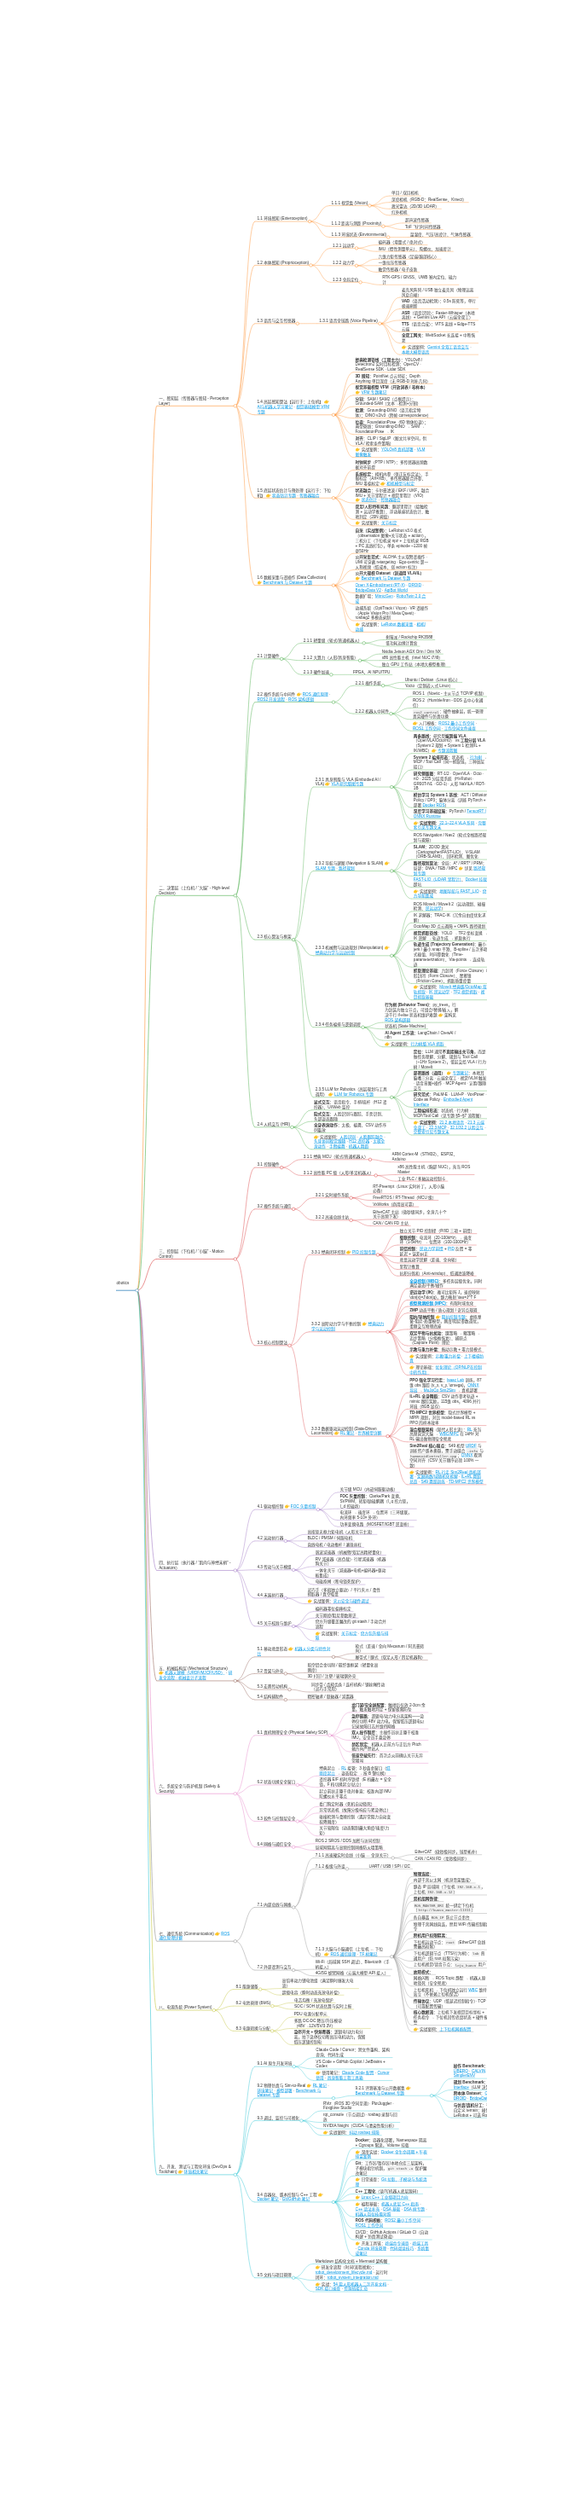
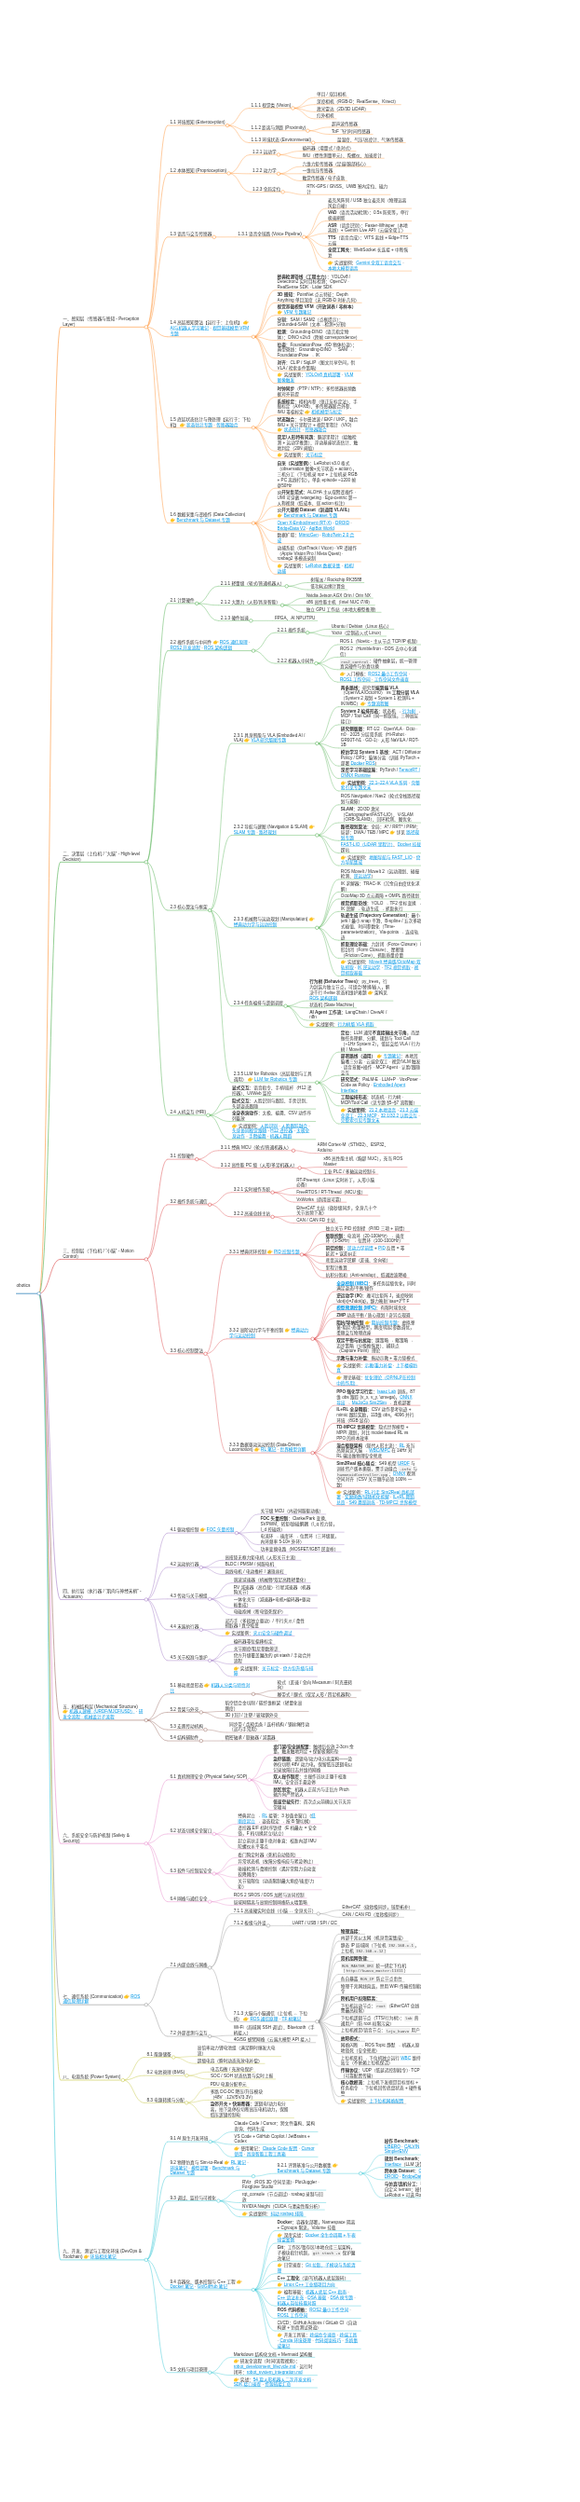
2

diff --git a/scripts/trim_preview_png.py b/scripts/trim_preview_png.py
@@ -63,6 +63,7 @@ def process(
     offset_y: int = 0,
     trim_right: int = 0,
     fit_width: bool = False,
+    fit_height: bool = False,
 ) -> tuple[int, int]:
     img = Image.open(path)
     if img.mode != "RGB":
@@ -101,17 +102,29 @@ def process(
                 fit = fit * th / nh
             nw = max(1, int(cw * fit))
             nh = max(1, int(ch * fit))
+            if (nw, nh) != (cw, ch):
+                cropped = cropped.resize((nw, nh), Image.Resampling.LANCZOS)
+                cw, ch = nw, nh
+        elif fit_height:
+            fit = (th / ch) * content_scale
+            nw = max(1, int(cw * fit))
+            nh = max(1, int(ch * fit))
+            cropped = cropped.resize((nw, nh), Image.Resampling.LANCZOS)
+            if nw > tw:
+                x0 = max(0, min(nw - tw, (nw - tw) // 2 - offset_x))
+                cropped = cropped.crop((x0, 0, x0 + tw, nh))
+            cw, ch = cropped.size
         else:
             fit = min(tw / cw, th / ch) * content_scale
             nw = max(1, int(cw * fit))
             nh = max(1, int(ch * fit))
-        if (nw, nh) != (cw, ch):
-            cropped = cropped.resize((nw, nh), Image.Resampling.LANCZOS)
-            cw, ch = nw, nh
+            if (nw, nh) != (cw, ch):
+                cropped = cropped.resize((nw, nh), Image.Resampling.LANCZOS)
+                cw, ch = nw, nh
         if canvas_height is None:
             th = ch
         canvas = Image.new("RGB", (tw, th), (255, 255, 255))
-        ox = max(0, min(tw - cw, (tw - cw) // 2 + offset_x))
+        ox = max(0, min(tw - cw, (tw - cw) // 2 + offset_x)) if not fit_height else 0
         oy = max(0, min(th - ch, (th - ch) // 2 + offset_y))
         canvas.paste(cropped, (ox, oy))
         cropped = canvas

diff --git a/scripts/normalize_readme_previews.py b/scripts/normalize_readme_previews.py
@@ -24,7 +24,7 @@ def main() -> None:
     if not LIFECYCLE.is_file():
         raise SystemExit(f"missing {LIFECYCLE}")
 
-    # 思维导图：与 lifecycle 同高画布，内容等比缩小后上下留白居中（勿用 fit_width）
+    # 横向全展开思维导图：按高度撑满同高画布，宽出部分居中裁切
     process(
         MINDMAP,
         border=BORDER,
@@ -36,9 +36,9 @@ def main() -> None:
         pad_bottom=10,
         canvas_width=CONTENT_W,
         canvas_height=CONTENT_H,
-        content_scale=0.86,
-        offset_x=12,
-        fit_width=False,
+        content_scale=0.94,
+        offset_x=18,
+        fit_height=True,
     )
 
     process(

diff --git a/README.md b/README.md
@@ -19,28 +19,12 @@ flowchart LR
     USER -.-> B
 ```
 
-<table width="100%">
-<tr valign="top">
-<td align="center" width="50%">
-<strong>结构 · 全链路思维导图</strong><br/>
-<a href="https://651yyds3939.github.io/robotics-notes/robot_system_preview.html">
-<img src="./assets/robot_system_preview.png" width="540" alt="机器人全链路思维导图"/>
-</a><br/>
-<a href="./robot_system.md">robot_system.md</a> ·
-<a href="https://651yyds3939.github.io/robotics-notes/robot_system_preview.html">交互版</a>
-</td>
-<td align="center" width="50%">
-<strong>流程 · 研发生命周期</strong><br/>
-<a href="https://651yyds3939.github.io/robotics-notes/robot_development_lifecycle.html">
-<img src="./assets/lifecycle_preview.png" width="540" alt="研发全流程 Mermaid 大图"/>
-</a><br/>
-<a href="./robot_development_lifecycle.md">robot_development_lifecycle.md</a> ·
-<a href="https://651yyds3939.github.io/robotics-notes/robot_development_lifecycle.html">完整 HTML</a>
-</td>
-</tr>
-</table>
+| **结构 · 全链路思维导图** | **流程 · 研发生命周期** |
+| :---: | :---: |
+| [<img src="./assets/robot_system_preview.png" width="100%" alt="机器人全链路思维导图"/>](https://651yyds3939.github.io/robotics-notes/robot_system_preview.html) | [<img src="./assets/lifecycle_preview.png" width="100%" alt="研发全流程 Mermaid 大图"/>](https://651yyds3939.github.io/robotics-notes/robot_development_lifecycle.html) |
+| [robot_system.md](./robot_system.md) · [交互版](https://651yyds3939.github.io/robotics-notes/robot_system_preview.html) | [robot_development_lifecycle.md](./robot_development_lifecycle.md) · [完整 HTML](https://651yyds3939.github.io/robotics-notes/robot_development_lifecycle.html) |
 
-> **缩略图说明**：上表两张 PNG 由 [`regenerate_all_previews.sh`](./regenerate_all_previews.sh) 自动生成（已裁边、同高；思维导图上下留白并略缩小）。**点击图片**打开 GitHub Pages 交互页。
+> **缩略图说明**：上表两张 PNG 由 [`regenerate_all_previews.sh`](./regenerate_all_previews.sh) 自动生成（已裁边、同高；GitHub 请用 Markdown 表格 + width="100%" 并排）。**点击图片**打开 GitHub Pages 交互页。
 >
 > **多图文档（首页不放缩略图）**：[运行时闭环 · integration](./robotics/robot_system_integration.md) · [二次开发管线 · pipelines](./robotics/robot_software_pipelines.md) — 在 GitHub 打开 `.md` 即可渲染 Mermaid。
 